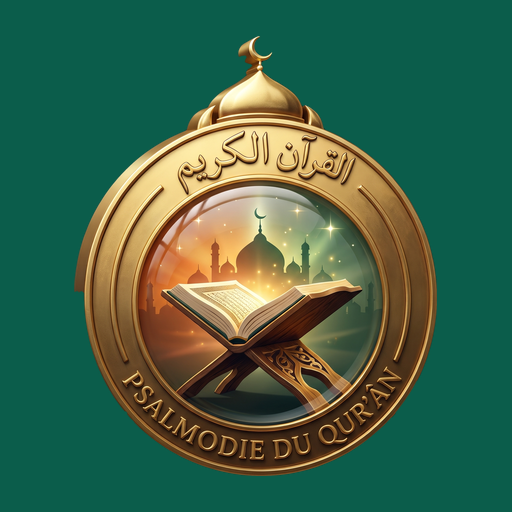
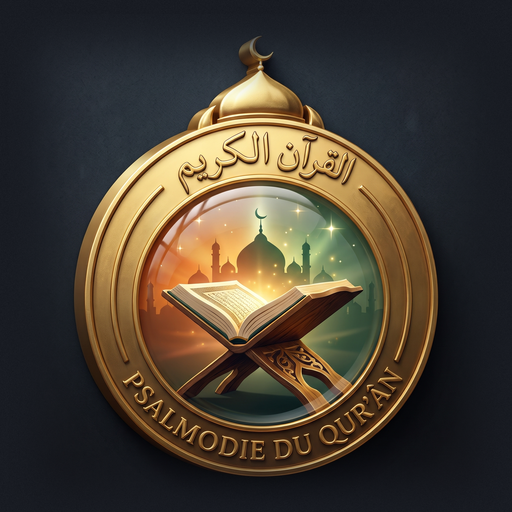
v284: icônes de l’app installée sur fond ardoise (fond d’origine du médaillon)
Claude-Session: https://claude.ai/code/session_01UYdYS6K3sTev2hGYkbnfQP

diff --git a/sw.js b/sw.js
@@ -1,6 +1,6 @@
 // Niveau 4C — cache pour une ouverture rapide et hors ligne.
 // Change le numéro de CACHE à chaque nouvelle version : les téléphones affichent alors « Nouvelle version disponible ».
-const CACHE = 'niveau4c-v283-2026-11-26';
+const CACHE = 'niveau4c-v284-2026-11-26';
 const PRECACHE = ['./', 'index.html', 'manifest.webmanifest', 'assets/apple-touch-icon.png', 'assets/arpunct.woff2', 'assets/fonts/salat-calligraphie.woff2', 'assets/fonts/scheherazade-new-arabic-400-normal.woff2', 'assets/fonts/amiri-quran-arabic-400-normal.woff2', 'assets/cifod_cercle.webp', 'assets/cifod_logo.webp', 'assets/cifod_logo_prog.webp', 'assets/compagnon_cercle.webp', 'assets/dots.svg', 'assets/facebook_logo.webp', 'assets/fin-de-verset.svg', 'assets/hizb.svg', 'assets/icon-192.png', 'assets/icon-512.png', 'assets/icon-maskable-512.png', 'assets/jim.svg', 'assets/kfgqpc_hafs.woff2', 'assets/quran/index.json', 'assets/quran/s001.json', 'assets/quran/s002.json', 'assets/quran/s003.json', 'assets/quran/s004.json', 'assets/quran/s005.json', 'assets/quran/s006.json', 'assets/quran/s007.json', 'assets/quran/s008.json', 'assets/quran/s009.json', 'assets/quran/s010.json', 'assets/quran/s011.json', 'assets/quran/s012.json', 'assets/quran/s013.json', 'assets/quran/s014.json', 'assets/quran/s015.json', 'assets/quran/s016.json', 'assets/quran/s017.json', 'assets/quran/s018.json', 'assets/quran/s019.json', 'assets/quran/s020.json', 'assets/quran/s021.json', 'assets/quran/s022.json', 'assets/quran/s023.json', 'assets/quran/s024.json', 'assets/quran/s025.json', 'assets/quran/s026.json', 'assets/quran/s027.json', 'assets/quran/s028.json', 'assets/quran/s029.json', 'assets/quran/s030.json', 'assets/quran/s031.json', 'assets/quran/s032.json', 'assets/quran/s033.json', 'assets/quran/s034.json', 'assets/quran/s035.json', 'assets/quran/s036.json', 'assets/quran/s037.json', 'assets/quran/s038.json', 'assets/quran/s039.json', 'assets/quran/s040.json', 'assets/quran/s041.json', 'assets/quran/s042.json', 'assets/quran/s043.json', 'assets/quran/s044.json', 'assets/quran/s045.json', 'assets/quran/s046.json', 'assets/quran/s047.json', 'assets/quran/s048.json', 'assets/quran/s049.json', 'assets/quran/s050.json', 'assets/quran/s051.json', 'assets/quran/s052.json', 'assets/quran/s053.json', 'assets/quran/s054.json', 'assets/quran/s055.json', 'assets/quran/s056.json', 'assets/quran/s057.json', 'assets/quran/s058.json', 'assets/quran/s059.json', 'assets/quran/s060.json', 'assets/quran/s061.json', 'assets/quran/s062.json', 'assets/quran/s063.json', 'assets/quran/s064.json', 'assets/quran/s065.json', 'assets/quran/s066.json', 'assets/quran/s067.json', 'assets/quran/s068.json', 'assets/quran/s069.json', 'assets/quran/s070.json', 'assets/quran/s071.json', 'assets/quran/s072.json', 'assets/quran/s073.json', 'assets/quran/s074.json', 'assets/quran/s075.json', 'assets/quran/s076.json', 'assets/quran/s077.json', 'assets/quran/s078.json', 'assets/quran/s079.json', 'assets/quran/s080.json', 'assets/quran/s081.json', 'assets/quran/s082.json', 'assets/quran/s083.json', 'assets/quran/s084.json', 'assets/quran/s085.json', 'assets/quran/s086.json', 'assets/quran/s087.json', 'assets/quran/s088.json', 'assets/quran/s089.json', 'assets/quran/s090.json', 'assets/quran/s091.json', 'assets/quran/s092.json', 'assets/quran/s093.json', 'assets/quran/s094.json', 'assets/quran/s095.json', 'assets/quran/s096.json', 'assets/quran/s097.json', 'assets/quran/s098.json', 'assets/quran/s099.json', 'assets/quran/s100.json', 'assets/quran/s101.json', 'assets/quran/s102.json', 'assets/quran/s103.json', 'assets/quran/s104.json', 'assets/quran/s105.json', 'assets/quran/s106.json', 'assets/quran/s107.json', 'assets/quran/s108.json', 'assets/quran/s109.json', 'assets/quran/s110.json', 'assets/quran/s111.json', 'assets/quran/s112.json', 'assets/quran/s113.json', 'assets/quran/s114.json', 'assets/fonts/alegreya-latin-400-italic.woff2', 'assets/fonts/alegreya-latin-400-normal.woff2', 'assets/fonts/alegreya-latin-500-italic.woff2', 'assets/fonts/alegreya-latin-500-normal.woff2', 'assets/fonts/alegreya-latin-700-italic.woff2', 'assets/fonts/alegreya-latin-700-normal.woff2', 'assets/fonts/alegreya-latin-800-normal.woff2', 'assets/fonts/alegreya-latin-ext-400-italic.woff2', 'assets/fonts/alegreya-latin-ext-400-normal.woff2', 'assets/fonts/alegreya-latin-ext-500-italic.woff2', 'assets/fonts/alegreya-latin-ext-500-normal.woff2', 'assets/fonts/alegreya-latin-ext-700-italic.woff2', 'assets/fonts/alegreya-latin-ext-700-normal.woff2', 'assets/fonts/alegreya-latin-ext-800-normal.woff2', 'assets/fonts/alegreya-sans-latin-500-normal.woff2', 'assets/fonts/alegreya-sans-latin-700-normal.woff2', 'assets/fonts/alegreya-sans-latin-800-normal.woff2', 'assets/fonts/alegreya-sans-latin-ext-500-normal.woff2', 'assets/fonts/alegreya-sans-latin-ext-700-normal.woff2', 'assets/fonts/alegreya-sans-latin-ext-800-normal.woff2', 'assets/la.svg', 'assets/logo_android.webp', 'assets/logo_apple.webp', 'assets/logo_gmail.webp', 'assets/logo_google_maps.webp', 'assets/logo_psalmodie.webp', 'assets/logo_web_globe.webp', 'assets/logo_tiktok.webp', 'assets/logo_whatsapp.webp', 'assets/logo_youtube.webp', 'assets/mim.svg', 'assets/petite-vue.iife.js', 'assets/qala.svg', 'assets/sajda.svg', 'assets/sala.svg', 'assets/sin.svg', 'assets/viatique_cercle.webp', 'assets/quran_cercle.webp'];
 self.addEventListener('install', (e) => {
   e.waitUntil(caches.open(CACHE).then((c) => c.addAll(PRECACHE)));

diff --git a/index.html b/index.html
@@ -17,8 +17,8 @@
 <meta property="og:locale" content="fr_FR">
 <meta name="twitter:card" content="summary_large_image">
 <link rel="canonical" href="https://tadjwiid-cifod.netlify.app/">
-<link rel="icon" type="image/png" sizes="192x192" href="assets/icon-192.png?v=283">
-<link rel="apple-touch-icon" href="assets/apple-touch-icon.png?v=283">
+<link rel="icon" type="image/png" sizes="192x192" href="assets/icon-192.png?v=284">
+<link rel="apple-touch-icon" href="assets/apple-touch-icon.png?v=284">
 <link rel="manifest" href="manifest.webmanifest">
 <meta name="theme-color" content="#F5F6F1">
 <meta name="mobile-web-app-capable" content="yes">
